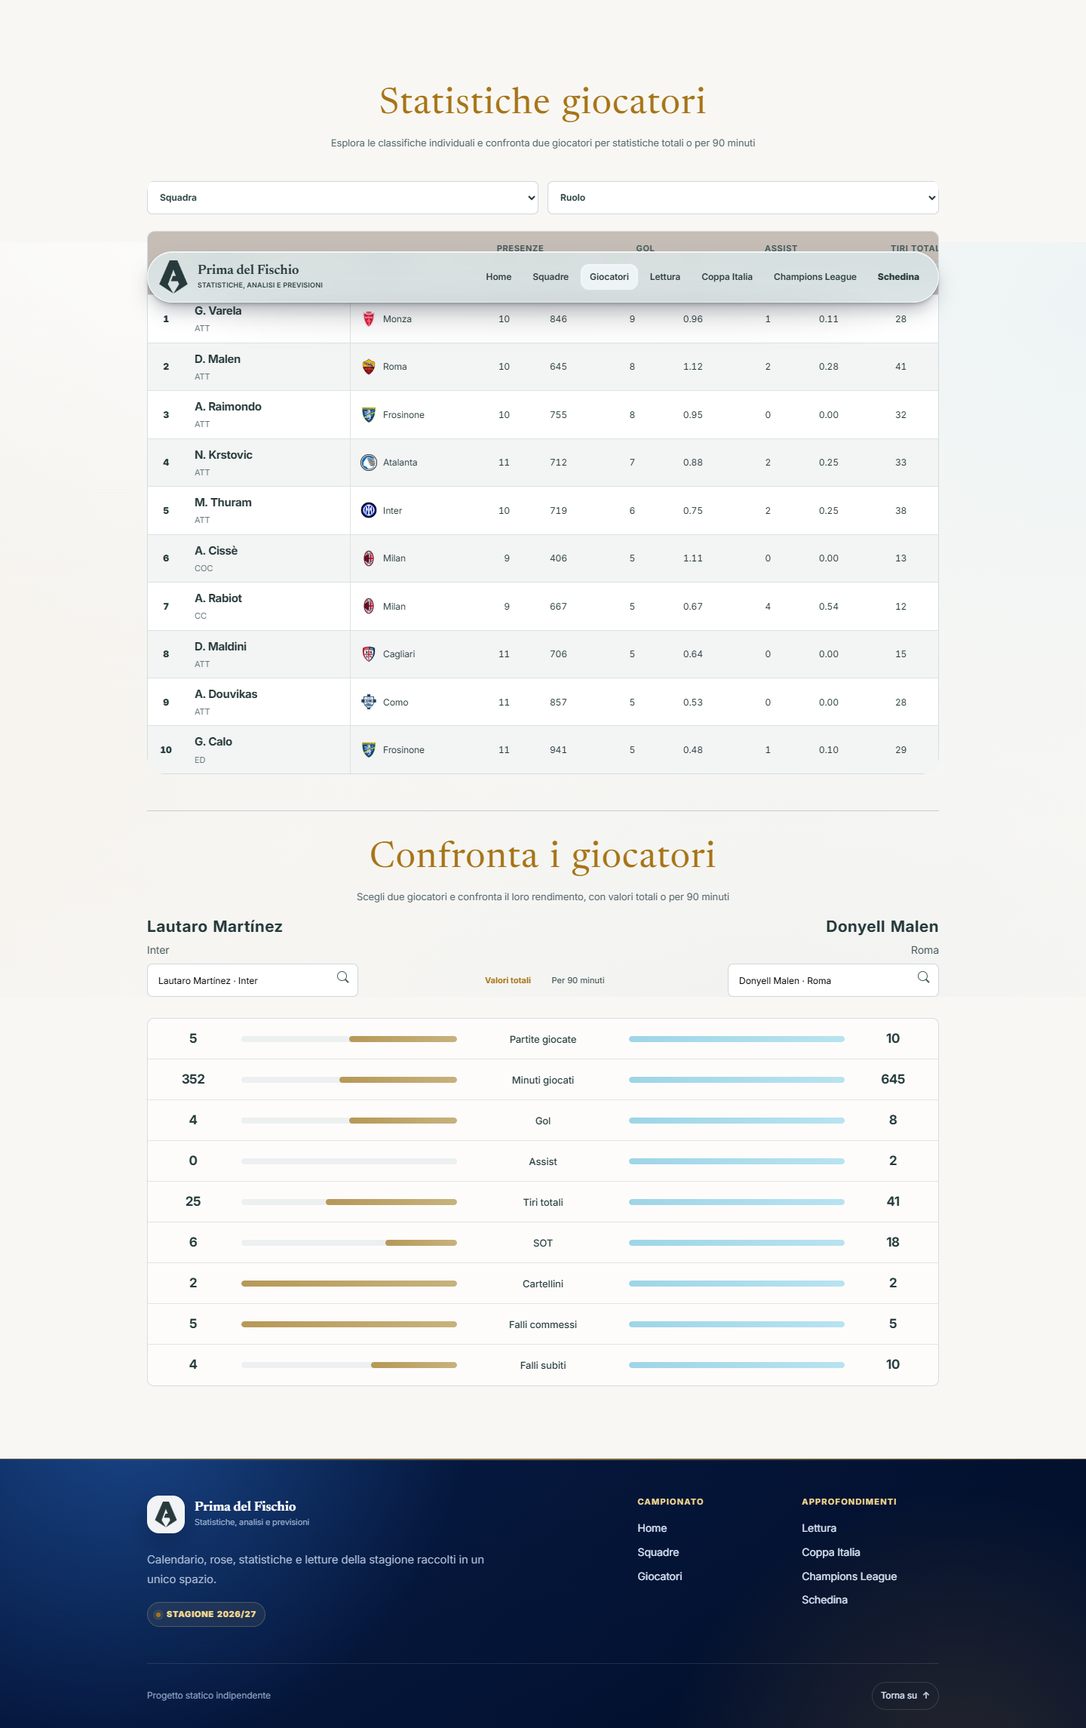
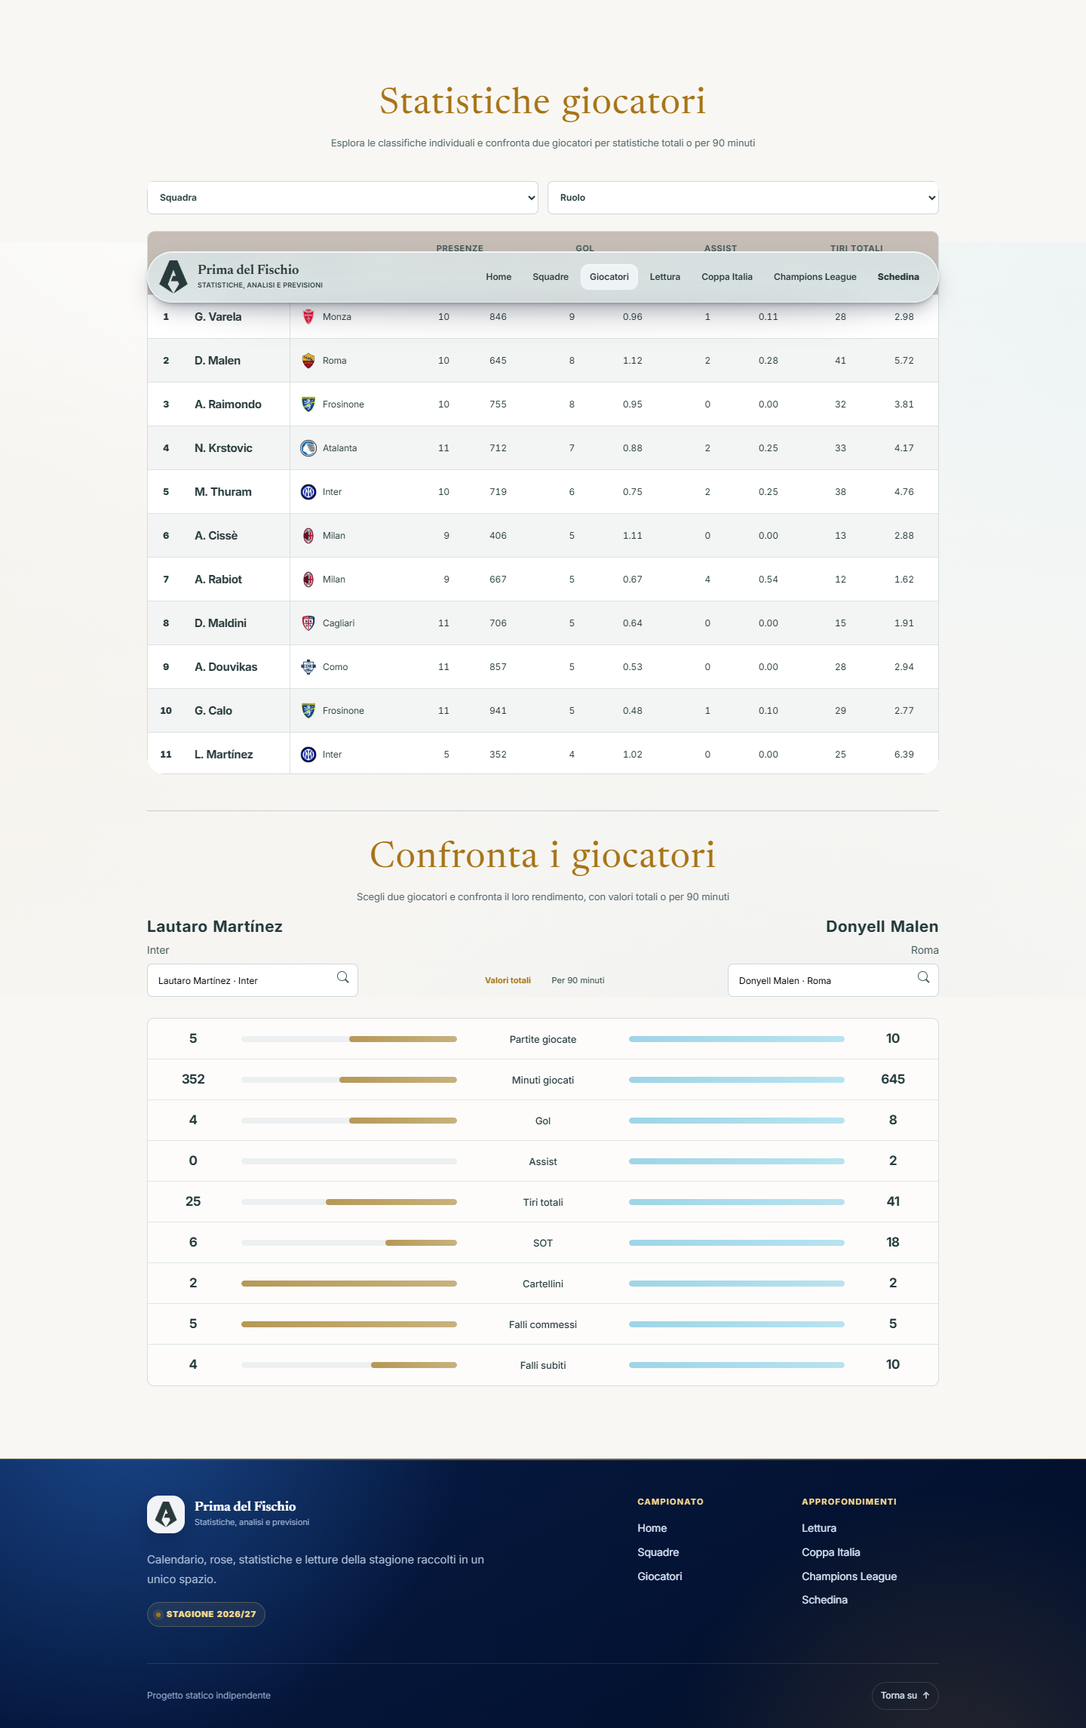
alleggerimento file

Changed region(s): [[0.2812, 0.186, 0.3438, 0.4341], [0.1562, 0.155, 0.25, 0.4341], [0.8125, 0.279, 0.8438, 0.31]]

diff --git a/js/pages/teams.js b/js/pages/teams.js
@@ -31,7 +31,7 @@ function globalPlayerLeaderboardTable(data,periodId,metricId,filters={},sort={ke
   const metrics=filters.role==="goalkeepers"?[{field:"goalsConceded",label:"Gol subiti"},{field:"cards",label:"Cartellini"}]:Object.values(period.rankings).filter(metric=>metric.field!=="xgot");
   const sortHeader=(label,key,mode)=>{const active=sort.key===key&&sort.mode===mode;return `<th scope="col" aria-sort="${active?(sort.direction==="asc"?"ascending":"descending"):"none"}"><button type="button" class="ranking-sort" data-ranking-sort="${esc(key)}" data-sort-mode="${mode}">${esc(label)}</button></th>`};
   const valueHeaders=metrics.map(metric=>sortHeader("Tot.",metric.field,"total")+sortHeader("/90",metric.field,"per90")).join("");
-  return `<div class="table-wrap squad-table-wrap player-ranking-scroll" role="region" aria-label="Classifica calciatori; scorri orizzontalmente e verticalmente" tabindex="0"><table class="squad-table global-player-table${filters.role==="goalkeepers"?" goalkeeper-ranking-table":""}"><colgroup><col class="ranking-col-rank"><col class="ranking-col-player"><col class="ranking-col-team"><col class="ranking-col-base"><col class="ranking-col-base">${metrics.map(()=>'<col class="ranking-col-stat"><col class="ranking-col-stat">').join("")}</colgroup><thead><tr><th rowspan="2" scope="col">#</th>${sortHeader("CALCIATORE","name","text").replace('<th scope="col"','<th rowspan="2" scope="col"')}${sortHeader("SQUADRA","currentTeam","text").replace('<th scope="col"','<th rowspan="2" scope="col"')}<th colspan="2" scope="colgroup">Presenze</th>${metrics.map(metric=>`<th colspan="2" scope="colgroup">${esc(metric.label)}</th>`).join("")}</tr><tr>${sortHeader("PG","appearances","base")}${sortHeader("Min","minutes","base")}${valueHeaders}</tr></thead><tbody>${ranking.players.map((player,index)=>{const serieB=periodId!=="2026/27"&&player.competition==="Serie B"?'<span class="serie-b-marker" title="Il riepilogo include dati prodotti in Serie B 2025/26">* Serie B</span>':"",valueCells=metrics.map(metric=>{const value=player.values?.[metric.field],rate=player.per90?.[metric.field];return `<td><strong class="global-leader-value">${typeof value==="number"&&Number.isFinite(value)?globalLeaderboardValue(value):"N/D"}</strong></td><td><span class="global-leader-rate">${typeof rate==="number"&&Number.isFinite(rate)?rate.toFixed(2):"N/D"}</span></td>`}).join("");return `<tr><td><span class="global-leader-rank">${index+1}</span></td><td><span class="global-leader-player" title="${esc(player.name)}"><span><strong data-full-name="${esc(player.name)}">${esc(rankingPlayerName(player.name))}</strong>${serieB}<small>${esc(playerRoleLabel(player.role))}</small></span></span></td><td><span class="player-team">${badge(player.currentTeamId)}${esc(player.currentTeam)}</span></td><td>${player.appearances??"N/D"}</td><td>${player.minutes??"N/D"}</td>${valueCells}</tr>`}).join("")}</tbody></table></div>`;
+  return `<div class="table-wrap squad-table-wrap player-ranking-scroll" role="region" aria-label="Classifica calciatori; scorri orizzontalmente e verticalmente" tabindex="0"><table class="squad-table global-player-table${filters.role==="goalkeepers"?" goalkeeper-ranking-table":""}"><colgroup><col class="ranking-col-rank"><col class="ranking-col-player"><col class="ranking-col-team"><col class="ranking-col-base"><col class="ranking-col-base">${metrics.map(()=>'<col class="ranking-col-stat"><col class="ranking-col-stat">').join("")}</colgroup><thead><tr><th rowspan="2" scope="col">#</th>${sortHeader("CALCIATORE","name","text").replace('<th scope="col"','<th rowspan="2" scope="col"')}${sortHeader("SQUADRA","currentTeam","text").replace('<th scope="col"','<th rowspan="2" scope="col"')}<th colspan="2" scope="colgroup">Presenze</th>${metrics.map(metric=>`<th colspan="2" scope="colgroup">${esc(metric.label)}</th>`).join("")}</tr><tr>${sortHeader("PG","appearances","base")}${sortHeader("Min","minutes","base")}${valueHeaders}</tr></thead><tbody>${ranking.players.map((player,index)=>{const serieB=periodId!=="2026/27"&&player.competition==="Serie B"?'<span class="serie-b-marker" title="Il riepilogo include dati prodotti in Serie B 2025/26">* Serie B</span>':"",valueCells=metrics.map(metric=>{const value=player.values?.[metric.field],rate=player.per90?.[metric.field];return `<td><strong class="global-leader-value">${typeof value==="number"&&Number.isFinite(value)?globalLeaderboardValue(value):"N/D"}</strong></td><td><span class="global-leader-rate">${typeof rate==="number"&&Number.isFinite(rate)?rate.toFixed(2):"N/D"}</span></td>`}).join("");return `<tr><td><span class="global-leader-rank">${index+1}</span></td><td><span class="global-leader-player" title="${esc(player.name)}"><span><strong data-full-name="${esc(player.name)}">${esc(rankingPlayerName(player.name))}</strong>${serieB}</span></span></td><td><span class="player-team">${badge(player.currentTeamId)}${esc(player.currentTeam)}</span></td><td>${player.appearances??"N/D"}</td><td>${player.minutes??"N/D"}</td>${valueCells}</tr>`}).join("")}</tbody></table></div>`;
 }
 function globalPlayerLeaderboards(data){
   const defaultPeriod="2026/27";
@@ -56,7 +56,24 @@ function comparatorResult(data,periodId,keys,mode="total"){
   else html=statisticsHeading("Statistiche giocatori","Esplora le classifiche individuali e confronta due giocatori per statistiche totali o per 90 minuti.")+globalPlayerLeaderboards(playerLeaderboards)+playerComparator(playerLeaderboards);
     document.querySelector("#app").innerHTML=html;
   if(page==="player-stats"){const target=document.querySelector("#global-player-leaderboard");let periodId="2026/27",metricId="goals",rankingSort={key:"goals",mode:"total",direction:"desc"};
-const renderRanking=()=>target.innerHTML=globalPlayerLeaderboardTable(playerLeaderboards,periodId,metricId,{team:document.querySelector('[data-ranking-team]').value,role:document.querySelector('[data-ranking-role]').value},rankingSort);
+let rankingFadeFrame;
+const updateRankingFade=()=>{
+ const scroll=target.querySelector('.player-ranking-scroll');if(!scroll)return;
+ scroll.querySelectorAll('tr').forEach(row=>[...row.children].forEach((cell,index)=>{
+  if((row.parentElement.tagName==='TBODY'||row===row.parentElement.firstElementChild)&&index<2)return;
+  if(cell.querySelector('.ranking-fading-content'))return;
+  const text=document.createElement('span');text.className='ranking-fading-content';text.append(...cell.childNodes);cell.append(text);
+ }));
+ cancelAnimationFrame(rankingFadeFrame);rankingFadeFrame=requestAnimationFrame(()=>{
+  if(!scroll.isConnected)return;
+  const bounds=scroll.getBoundingClientRect(),pinned=scroll.querySelector('tbody tr td:nth-child(2)'),edge=pinned?.getBoundingClientRect().right||bounds.left;
+  const positions=[...scroll.querySelectorAll('.ranking-fading-content')].map(text=>{const rect=text.getBoundingClientRect();return [text,edge-rect.left,bounds.right-rect.left]});
+  positions.forEach(([text,left,right])=>{text.style.setProperty('--fade-left',left+'px');text.style.setProperty('--fade-left-end',(left+18)+'px');text.style.setProperty('--fade-right-start',(right-16)+'px');text.style.setProperty('--fade-right',right+'px')});
+ });
+};
+const renderRanking=()=>{target.innerHTML=globalPlayerLeaderboardTable(playerLeaderboards,periodId,metricId,{team:document.querySelector('[data-ranking-team]').value,role:document.querySelector('[data-ranking-role]').value},rankingSort);updateRankingFade()};
+target.addEventListener('scroll',updateRankingFade,true);
+const rankingResize=new ResizeObserver(updateRankingFade);rankingResize.observe(target);updateRankingFade();
 target.addEventListener('click',event=>{const button=event.target.closest('[data-ranking-sort]');if(!button)return;const key=button.dataset.rankingSort,mode=button.dataset.sortMode;rankingSort={key,mode,direction:rankingSort.key===key&&rankingSort.mode===mode?(rankingSort.direction==="desc"?"asc":"desc"):(mode==="text"?"asc":"desc")};const scroll=target.querySelector('.player-ranking-scroll'),left=scroll?.scrollLeft||0;renderRanking();target.querySelector('.player-ranking-scroll')?.scrollTo({left,top:0});target.querySelector(`[data-ranking-sort="${key}"][data-sort-mode="${mode}"]`)?.focus({preventScroll:true})});
 document.querySelector('[data-ranking-role]').addEventListener('change',()=>{const goalkeeper=document.querySelector('[data-ranking-role]').value==='goalkeepers';if(goalkeeper&&!['name','currentTeam','appearances','minutes','goalsConceded','cards'].includes(rankingSort.key))rankingSort={key:'goalsConceded',mode:'total',direction:'asc'};else if(!goalkeeper&&rankingSort.key==='goalsConceded')rankingSort={key:'goals',mode:'total',direction:'desc'};renderRanking()});
 

diff --git a/statistiche-giocatori.html b/statistiche-giocatori.html
@@ -1,2 +1,2 @@
 <!doctype html>
-<html lang="it"><head><meta charset="utf-8"><meta name="viewport" content="width=device-width,initial-scale=1"><meta name="description" content="Serie A, Coppa Italia e Champions League · Statistiche giocatori"><title>Statistiche giocatori | Prima del Fischio</title><link rel="icon" type="image/png" href="assets/images/optimized/serie-a-logo-mark.webp"><link rel="manifest" href="manifest.webmanifest"><meta name="theme-color" content="#102541"><meta name="apple-mobile-web-app-capable" content="yes"><meta name="apple-mobile-web-app-status-bar-style" content="default"><meta name="apple-mobile-web-app-title" content="Prima del Fischio"><link rel="apple-touch-icon" href="assets/app/icon-180.png"><link rel="stylesheet" href="css/install-app.css?v=3"><script defer src="js/install-app.js?v=2"></script><link rel="preconnect" href="https://fonts.googleapis.com"><link rel="preconnect" href="https://fonts.gstatic.com" crossorigin><link href="https://fonts.googleapis.com/css2?family=Inter:ital,opsz,wght@0,14..32,100..900;1,14..32,100..900&family=Newsreader:opsz,wght@6..72,400..750&display=swap" rel="stylesheet"><!-- page-styles:start --><link rel="stylesheet" href="css/pages/player-stats.css?v=17db05620236"><!-- page-styles:end --><script src="js/public-presentation.js?v=20261114-heading-punctuation-v2"></script></head><body data-page="player-stats"><header id="site-top" class="site-header"><a class="brand" aria-label="Prima del Fischio — Home" href="index.html"><span class="brand-mark"><img src="assets/images/optimized/serie-a-logo-mark.webp" alt=""></span><span><strong>Prima del Fischio</strong><small>Statistiche, analisi e previsioni</small></span></a><button class="menu-button" type="button" aria-controls="site-nav" aria-label="Apri menu" aria-expanded="false">Menu</button><nav id="site-nav" class="site-nav" aria-label="Navigazione principale"><a class="page-link" data-page-link="home" href="index.html">Home</a><a class="page-link" data-page-link="team-stats" href="statistiche-squadre.html">Squadre</a><a class="page-link active" data-page-link="player-stats" href="statistiche-giocatori.html">Giocatori</a><a class="page-link" data-page-link="readings" href="lettura.html">Lettura</a><a class="page-link" data-page-link="cup" href="coppa-italia.html">Coppa Italia</a><a class="page-link" data-page-link="champions" href="champions-league.html">Champions League</a><a class="page-link" data-page-link="betting" href="schedina.html">Schedina</a></nav></header><main id="app" tabindex="-1"><section class="loading"><p class="eyebrow">Caricamento</p><h1>Statistiche giocatori</h1></section></main><footer class="site-footer"><div class="site-footer-inner"><div class="site-footer-top"><div class="site-footer-intro"><a class="footer-brand" href="index.html"><span class="footer-brand-mark"><img src="assets/images/optimized/serie-a-logo-mark.webp" alt=""></span><span><strong>Prima del Fischio</strong><small>Statistiche, analisi e previsioni</small></span></a><p>Calendario, rose, statistiche e letture della stagione raccolti in un unico spazio.</p><span class="footer-season">Stagione 2026/27</span></div><nav class="footer-nav" aria-label="Navigazione nel footer"><div><strong>Campionato</strong><a href="index.html">Home</a><a href="statistiche-squadre.html">Squadre</a><a href="statistiche-giocatori.html">Giocatori</a></div><div><strong>Approfondimenti</strong><a href="lettura.html">Lettura</a><a href="coppa-italia.html">Coppa Italia</a><a href="champions-league.html">Champions League</a><a href="schedina.html">Schedina</a></div></nav></div><div class="site-footer-bottom"><p>Progetto statico indipendente</p><a href="#site-top">Torna su <span aria-hidden="true">↑</span></a></div></div></footer><script type="module" src="js/app.js?v=20261024-player-keepers-data-v12-headings-57a0e1bb98f4"></script></body></html>
+<html lang="it"><head><meta charset="utf-8"><meta name="viewport" content="width=device-width,initial-scale=1"><meta name="description" content="Serie A, Coppa Italia e Champions League · Statistiche giocatori"><title>Statistiche giocatori | Prima del Fischio</title><link rel="icon" type="image/png" href="assets/images/optimized/serie-a-logo-mark.webp"><link rel="manifest" href="manifest.webmanifest"><meta name="theme-color" content="#102541"><meta name="apple-mobile-web-app-capable" content="yes"><meta name="apple-mobile-web-app-status-bar-style" content="default"><meta name="apple-mobile-web-app-title" content="Prima del Fischio"><link rel="apple-touch-icon" href="assets/app/icon-180.png"><link rel="stylesheet" href="css/install-app.css?v=3"><script defer src="js/install-app.js?v=2"></script><link rel="preconnect" href="https://fonts.googleapis.com"><link rel="preconnect" href="https://fonts.gstatic.com" crossorigin><link href="https://fonts.googleapis.com/css2?family=Inter:ital,opsz,wght@0,14..32,100..900;1,14..32,100..900&family=Newsreader:opsz,wght@6..72,400..750&display=swap" rel="stylesheet"><!-- page-styles:start --><link rel="stylesheet" href="css/pages/player-stats.css?v=b5463f124a24"><!-- page-styles:end --><script src="js/public-presentation.js?v=20261114-heading-punctuation-v2"></script></head><body data-page="player-stats"><header id="site-top" class="site-header"><a class="brand" aria-label="Prima del Fischio — Home" href="index.html"><span class="brand-mark"><img src="assets/images/optimized/serie-a-logo-mark.webp" alt=""></span><span><strong>Prima del Fischio</strong><small>Statistiche, analisi e previsioni</small></span></a><button class="menu-button" type="button" aria-controls="site-nav" aria-label="Apri menu" aria-expanded="false">Menu</button><nav id="site-nav" class="site-nav" aria-label="Navigazione principale"><a class="page-link" data-page-link="home" href="index.html">Home</a><a class="page-link" data-page-link="team-stats" href="statistiche-squadre.html">Squadre</a><a class="page-link active" data-page-link="player-stats" href="statistiche-giocatori.html">Giocatori</a><a class="page-link" data-page-link="readings" href="lettura.html">Lettura</a><a class="page-link" data-page-link="cup" href="coppa-italia.html">Coppa Italia</a><a class="page-link" data-page-link="champions" href="champions-league.html">Champions League</a><a class="page-link" data-page-link="betting" href="schedina.html">Schedina</a></nav></header><main id="app" tabindex="-1"><section class="loading"><p class="eyebrow">Caricamento</p><h1>Statistiche giocatori</h1></section></main><footer class="site-footer"><div class="site-footer-inner"><div class="site-footer-top"><div class="site-footer-intro"><a class="footer-brand" href="index.html"><span class="footer-brand-mark"><img src="assets/images/optimized/serie-a-logo-mark.webp" alt=""></span><span><strong>Prima del Fischio</strong><small>Statistiche, analisi e previsioni</small></span></a><p>Calendario, rose, statistiche e letture della stagione raccolti in un unico spazio.</p><span class="footer-season">Stagione 2026/27</span></div><nav class="footer-nav" aria-label="Navigazione nel footer"><div><strong>Campionato</strong><a href="index.html">Home</a><a href="statistiche-squadre.html">Squadre</a><a href="statistiche-giocatori.html">Giocatori</a></div><div><strong>Approfondimenti</strong><a href="lettura.html">Lettura</a><a href="coppa-italia.html">Coppa Italia</a><a href="champions-league.html">Champions League</a><a href="schedina.html">Schedina</a></div></nav></div><div class="site-footer-bottom"><p>Progetto statico indipendente</p><a href="#site-top">Torna su <span aria-hidden="true">↑</span></a></div></div></footer><script type="module" src="js/app.js?v=20261024-player-keepers-data-v12-headings-7f8cde5d38a8"></script></body></html>

diff --git a/css/pages/player-stats.css b/css/pages/player-stats.css
@@ -5676,6 +5676,16 @@ body[data-page="player-stats"] #app .global-player-table tbody td{height:48px;pa
 body[data-page="player-stats"] #app>.global-player-leaders+.player-comparator{margin-top:24px;padding-top:24px}
 body[data-page="player-stats"] #app .player-comparator-heading{margin-bottom:20px}}
 body[data-page="player-stats"] #app .player-ranking-filters .sr-only{position:absolute;width:1px;height:1px;padding:0;margin:-1px;overflow:hidden;clip-path:inset(50%);white-space:nowrap;border:0}
+body[data-page="player-stats"] #app .global-player-table col.ranking-col-player{width:140px}
+body[data-page="player-stats"] #app .global-player-table tbody td:nth-child(2),
+body[data-page="player-stats"] #app .global-player-table thead tr:first-child>th:nth-child(2){width:140px;min-width:140px;max-width:140px}
+@media(max-width:700px){body[data-page="player-stats"] #app .global-player-table col.ranking-col-player{width:120px}
+body[data-page="player-stats"] #app .global-player-table tbody td:nth-child(2),
+ body[data-page="player-stats"] #app .global-player-table thead tr:first-child>th:nth-child(2){width:120px;min-width:120px;max-width:120px}}
+body[data-page="player-stats"] #app .ranking-fading-content{
+ display:block;
+ mask-image:linear-gradient(to right,transparent var(--fade-left,-20px),#000 var(--fade-left-end,-2px),#000 var(--fade-right-start,100%),transparent var(--fade-right,110%));
+}
 /* component-system.css: original cascade position */
 body .readings-index :is(.ri-archive,.ri-future){
   border:0;

diff --git a/css/player-statistics.css b/css/player-statistics.css
@@ -284,3 +284,19 @@ body[data-page="player-stats"] #app .player-ranking-filters{grid-template-column
 }
 
 body[data-page="player-stats"] #app .player-ranking-filters .sr-only{position:absolute;width:1px;height:1px;padding:0;margin:-1px;overflow:hidden;clip-path:inset(50%);white-space:nowrap;border:0}
+
+/* Fit the abbreviated player names without the former unused space. */
+body[data-page="player-stats"] #app .global-player-table col.ranking-col-player{width:140px}
+body[data-page="player-stats"] #app .global-player-table tbody td:nth-child(2),
+body[data-page="player-stats"] #app .global-player-table thead tr:first-child>th:nth-child(2){width:140px;min-width:140px;max-width:140px}
+@media(max-width:700px){
+ body[data-page="player-stats"] #app .global-player-table col.ranking-col-player{width:120px}
+ body[data-page="player-stats"] #app .global-player-table tbody td:nth-child(2),
+ body[data-page="player-stats"] #app .global-player-table thead tr:first-child>th:nth-child(2){width:120px;min-width:120px;max-width:120px}
+}
+
+/* Match the homepage standings: fade cell content beside the pinned identity. */
+body[data-page="player-stats"] #app .ranking-fading-content{
+ display:block;
+ mask-image:linear-gradient(to right,transparent var(--fade-left,-20px),#000 var(--fade-left-end,-2px),#000 var(--fade-right-start,100%),transparent var(--fade-right,110%));
+}

diff --git a/docs/reports/internal-archive-storage-2026-11-15.md b/docs/reports/internal-archive-storage-2026-11-15.md
@@ -1,0 +1,47 @@
+# Spazio degli archivi interni — 15 novembre 2026
+
+Compressione trasparente NTFS locale dei file di testo storici in `output/` e
+`reports/`. Nessuna eliminazione, rinomina, conversione del formato o modifica
+dei contenuti. Gli strumenti possono continuare ad aprire gli stessi percorsi.
+
+## Risultato misurato sul disco
+
+| Cartella | File trattati | Occupazione precedente | Occupazione finale | Recuperato |
+|---|---:|---:|---:|---:|
+| `output/` | 1.335 | 4,154 GB | 1,627 GB | 2,527 GB |
+| `reports/` | 178 | 0,237 GB | 0,087 GB | 0,150 GB |
+| Totale | 1.513 | 4,390 GB | 1,713 GB | **2,677 GB** |
+
+Risparmio circa **61% sui file trattati**, equivalente a circa **2,49 GiB**.
+Sono byte allocati sul disco NTFS, con cluster da 4.096 byte; la lunghezza logica
+dei file resta invariata. In Esplora file cambia «Dimensioni su disco».
+Le piccole evidenze dell'intervento occupano a loro volta spazio: il beneficio
+netto arrotondato rimane circa 2,68 GB.
+
+## Perimetro e verifiche
+
+- File di testo di almeno 64 KiB, non modificati negli ultimi dieci minuti.
+- Inclusi JSON, HTML, script, CSS e copie storiche testuali; esclusi collegamenti
+  simbolici/junction, immagini, ZIP, GZIP e file recenti.
+- Nessuna modifica alle directory `data/`, `.git/` o ai file attivi del sito.
+- Compressione standard NTFS dei soli file selezionati: le directory non sono
+  state impostate per comprimere automaticamente i nuovi file.
+- SHA-256 verificato prima e dopo su tutti i 1.513 file: **zero differenze**.
+- Hash invariati per calendario Serie A, calendario Champions, previsioni
+  canoniche e registro dei titolari ufficiali.
+- Tutti i 1.513 file risultano compressi. Una prova preliminare su un archivio
+  Sisal da 92,61 MB ne ha verificato lettura e identità prima del trattamento.
+
+Questa operazione recupera spazio locale. Non cambia il peso del pacchetto
+pubblico né la dimensione della cronologia Git. Non richiede modifiche ai
+lettori JSON e non applica nuovi calcoli alle partite.
+
+La compressione è reversibile con `compact /U` sui percorsi interessati. Il
+manifest conserva quali file erano già compressi prima dell'intervento, così
+un ripristino può limitarsi a quelli modificati in questa operazione.
+
+Evidenze locali, escluse da Git:
+`output/internal-archive-cleanup-2026-11-15/summary.json`,
+`manifest-before.json`, `manifest-after.json`, `trial.json` e `compact.log`.
+Lo script eseguito è `compress.ps1` nella medesima cartella. Non è un'attività
+automatica e non è stato eseguito alcun commit, push o deploy.

diff --git a/docs/reports/README.md b/docs/reports/README.md
@@ -1,5 +1,7 @@
 # Report storici e audit
 
+- [Spazio degli archivi interni — 15 novembre 2026](internal-archive-storage-2026-11-15.md)
+
 - [Letture archiviate leggere — Serie A e Champions](archived-readings-size-2026-11-15.md)
 
 - [Ottimizzazione delle prestazioni — 15 novembre 2026](performance-cleanup-2026-11-15.md)
